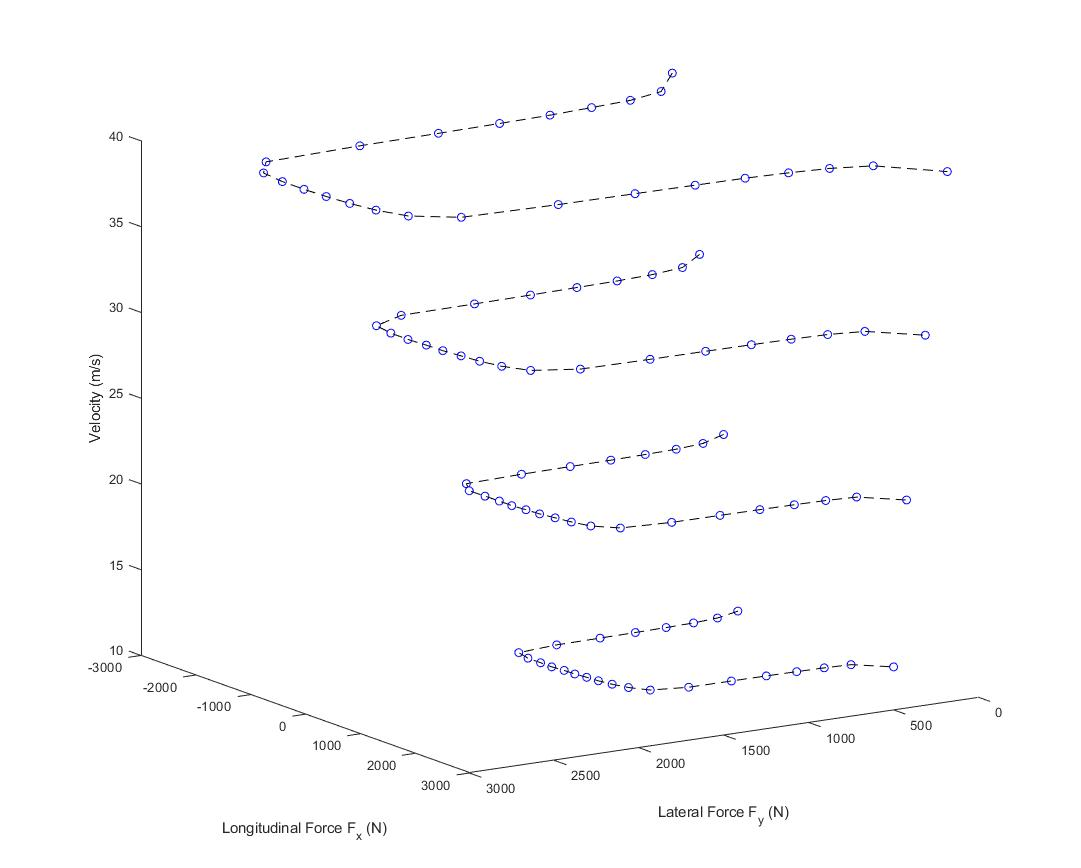
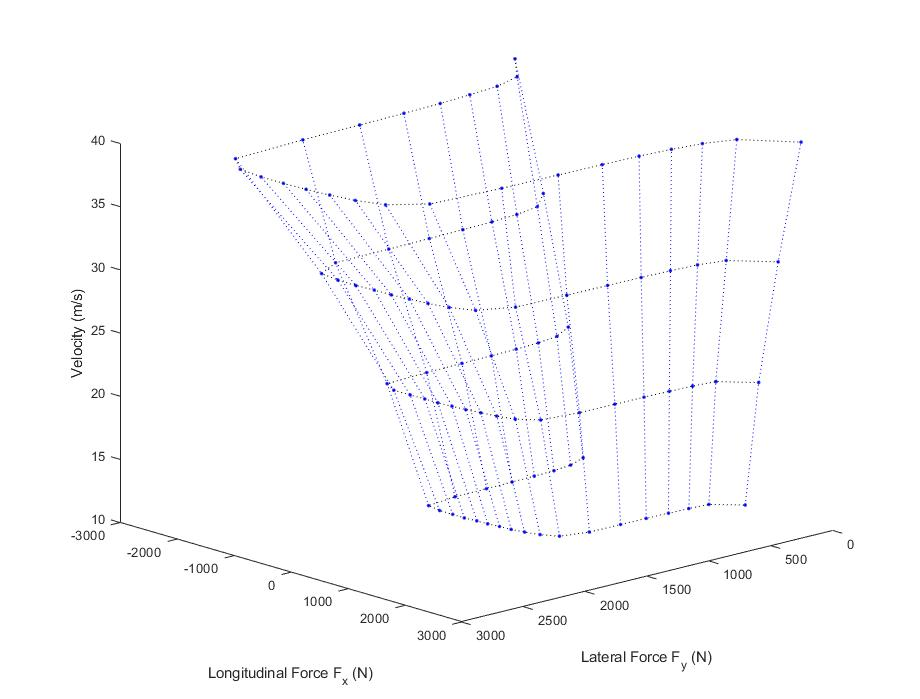
started steady state

diff --git a/classes/Simulator.m b/classes/Simulator.m
@@ -2,19 +2,116 @@ classdef Simulator
     properties
         car;            % Car object
         track;          % Track object
-        postion = 0;    % Representing the apex number (integer)
-        time = 0;       % Laptime (s)
+        pos = 0;        % Representing the apex number (integer)
+        time = 0;       % Total Laptime (s)
+        vels;
+        accels;
+        last_point_ind = 0;
+        t_step = 0.01;  % timestep (s)
     end
     
     methods
         function self = Simulator(car, track)
             self.car = car;
             self.track = track;
+            
+            self.calc_min_rs();
+            self.vels = zeros([1, self.track.num_points]);
+            self.accels = zeros([1, self.track.num_points]);
         end
         
-        function self = calc_leg()
+        function self = calc_leg(self)
             % Calculates the time between the current apex and the next
             % apex. Also updates current position 
+            [points, radii] = self.track.get_points(self.pos);
+            apex1_r = radii(1);
+            apex2_r = radii(end);
+            
+            n_points = size(points, 2);
+            
+            vels = zeros([1, n_points]);
+            accels = zeros([1, n_points]);
+            
+            v1 = self.calc_max_vel(apex1_r);
+            v2 = self.calc_max_vel(apex2_r);
+            
+            for i = 1:n_points
+                point = points(:, i);
+                radius = radii(:, i);
+                [fx, fy] = self.car.calc_forces(v, r)
+            end
+            
+           
+            
+            
+            self.pos = self.pos + 1;
         end
+        
+        function rs = calc_min_rs(self, cone)
+            % Calculates minimum radius the car is capable of navigating
+            % over a range of velocities. 
+            max_fys = zeros([1, size(cone, 3)]);
+            vs = squeeze(cone(3,1,:))';
+            for index = 1:size(cone, 3)
+                max_fys(index) = max(cone(2,:,index));
+            end
+            rs = vs.^2 * self.car.mass ./ max_fys;
+            self.min_rs = [rs; vs];
+        end
+        
+        function vel = calc_max_vel(self, cone, r)
+            % Calculates the maximum velocity (m/s) possible for a given
+            % radius (m)
+            all_rs = sort([cone(3, :), r]);
+            
+            ind2 = find(all_rs == r);
+            ind1 = ind2 - 1;
+            dv = self.min_rs(2, ind2) - self.min_rs(2, ind1);
+            dr = self.min_rs(1, ind2) - self.min_rs(1, ind1);
+            m = dv / dr;
+            vel = self.min_rs(2, ind1) + (r - self.min_rs(1, ind1)) * m;
+        end
+        
+        function circle = interp_circle(self, cone, v)
+            % Interpolates the friction circle for a given velocity within
+            % the friction cone. 
+            vs = squeeze(cone(3,1,:))';
+            all_vs = sort([vs, v]);
+            ind2 = find(all_vs == v);
+            ind1 = ind2 - 1;
+            
+            v1 = vs(ind1);
+            v2 = vs(ind2);
+            
+            circle1 = squeeze(cone(1:2, :, ind1));
+            circle2 = squeeze(cone(1:2, :, ind2));
+            circle = (circle2 - circle1) * (v - v1) / (v2 - v1) + circle1;
+        end
+        
+        function [fx, fy] = interp_force(self, cone, v, r, acc)
+            % Calculates max force fx, and fy given the velocity of the
+            % car, the radius of the turn, and the direction of tangential
+            % acceleration
+            
+            fy = v^2 * self.car.mass / r;
+            circle = self.interp_circle(cone, v);
+            valid_points = circle(:, sign(circle(1, :)) == sign(acc));
+            fys = valid_points(2,:);
+            [ind1, ind2] = self.find_closest_inds(fys, fy);
+            ps = valid_points(:, ind1:ind2);
+            fx = interp1(ps(2,:), ps(1,:), fy);
+            
+        end
+        
+        function [ind1, ind2] = find_closest_inds(self, arr, x)
+            % finds the indices of arr that would be adjacent to element x 
+            % if it were inserted into the array
+            all_elements = sort([arr, x]);
+            ind2 = find(all_elements == x);
+            ind1 = ind2 - 1;
+        end
+        
+        
+        
     end
 end

diff --git a/classes/Car.m b/classes/Car.m
@@ -6,7 +6,7 @@ classdef Car < handle
         frction_cone;
         aero;
         g = -9.81;      % m/s^2 (gravitational constant)
-        
+        min_rs;
     end
     
     methods
@@ -35,8 +35,9 @@ classdef Car < handle
             %   num_forces: number of points that make up each profile of the cone 
             % 
             % Returns:
-            %   cone: 2D matrix containing the points in [fx; fy; velocity]
-            %   space that make up the friction cone. 
+            %   cone: 3D matrix containing the points in [fx; fy; velocity]
+            %   space that make up the friction cone. Third dimension is
+            %   velocity
             
             % initialize vectors to store forces and velocities
             fxs = zeros([1, num_forces * length(vels)]);
@@ -47,6 +48,7 @@ classdef Car < handle
             index = 1;
             figure
             hold on
+            cone = zeros([3, num_forces, length(vels)]);
             for vel = vels
                 % calculate friction circle for specific velocity
                 circle = self.calc_friction_circle(tire, vel, num_alphas, num_forces);
@@ -56,17 +58,18 @@ classdef Car < handle
                 fys(flat_index:flat_index + num_forces - 1) = circle(1, :);
                 fxs(flat_index:flat_index + num_forces - 1) = circle(2, :);
                 vs(flat_index:flat_index + num_forces - 1) = zs;
-                plot3(circle(1, :), circle(2, :), zs, 'k--')
+                cone(:, :, index) = [circle; zs];
+                plot3(circle(1, :), circle(2, :), zs, 'k:')
                 index = index + 1;
             end
-            scatter3(fys, fxs, vs, 'bo')
+            scatter3(fys, fxs, vs, 'b.')
             xlabel('Lateral Force F_y (N)')
             ylabel('Longitudinal Force F_x (N)')
             zlabel('Velocity (m/s)')
-            cone = zeros([3, num_forces * length(vels)]);
-            cone(1, :) = fxs;
-            cone(2, :) = fys;
-            cone(3, :) = vs;
+            for f = 1:num_forces
+                index = f:num_forces:length(fxs);
+                plot3(fys(index), fxs(index), vs(index), 'b:')
+            end
         end
         
         function circle = calc_friction_circle(self, tire, vel, num_alphas, num_forces)
@@ -86,6 +89,8 @@ classdef Car < handle
             % Normal force (N)
             % Need to be positive!!
             Fz = -(self.mass * self.g + self.aero.calc_lift(vel)) ./ 4;
+            % drag force due to aero (should be negative!) (N)
+            F_drag = self.aero.calc_drag(vel);
             % Fz = -self.mass * self.g;
             disp(self.aero.calc_lift(vel) / (self.mass * self.g))
             Fzs = ones([1, num_samples]) * Fz;
@@ -116,6 +121,7 @@ classdef Car < handle
             % swept over
             curves = zeros([2, num_samples, num_alphas]);
             index = 0;
+
 %             figure
 %             xlabel('Lateral Force F_y (N)')
 %             ylabel('Longitudinal Force F_x (N)')
@@ -138,6 +144,8 @@ classdef Car < handle
                 fys = -squeeze(tire_res(:,2,:));
                 % Longitudinal Forces
                 fxs = squeeze(tire_res(:,1,:));
+
+                
 %                 plot(fys, fxs, 'b-')
                 
                 % Convert to polar coordinates
@@ -150,9 +158,8 @@ classdef Car < handle
             end
             % Calculate the max envelope of all of the curves
             circle = self.fit_friction_circle(curves, num_forces);
-%             
+            circle(2,:) = circle(2, :) + F_drag;
 %             scatter(circle(1, :), circle(2,:), 'k*')
-            
             
         end
         

diff --git a/test.m b/test.m
@@ -1,11 +1,14 @@
+close all
 addpath classes
 a = Dummy(110);
-aero = Aero(3, 1.33, -2.5, 0, 1);
+aero = Aero(3, 1.5, -2.5, 0, 1);
 c = Car(a, a, a, aero);
 c.mass
 
-% tire = './assets/tires/Hoosier_18x6_10_7in_14psi_V43.tir';
-% c.calc_cone(tire, [10,20, 30, 40], 20, 25);
+tire = './assets/tires/Hoosier_18x6_10_7in_14psi_V43.tir';
+cone = c.calc_cone(tire, [5:5:35], 20, 25);
+c.calc_min_r(cone)
+c.calc_min_vel(9)
 
 comps = ["./assets/competition_info/formula_north_2019.mat";
          "./assets/competition_info/formula_electric_2018.mat"];

diff --git a/classes/Track.m b/classes/Track.m
@@ -1,11 +1,17 @@
 classdef Track
     properties
         % track points 
+        num_points;
     end
     
     methods
         % write plot function to plot track based off endpoints and apex
         % points
+        
+        function [points, radii] = get_points(self, apex_index)
+            % returns the x,y coordinates for the track points between the
+            % current apex_index and the next apex index. 
+        end
     end
     
 end

diff --git a/classes/Aero.m b/classes/Aero.m
@@ -19,7 +19,7 @@ classdef Aero
         
         function drag = calc_drag(self, vel)
             % Calculates the drag force in Newtons for a given velocity
-            drag = self.coef_drag * self.rho * vel^2 * self.area * 0.5;
+            drag = -self.coef_drag * self.rho * vel^2 * self.area * 0.5;
         end
         
         function lift = calc_lift(self, vel)
